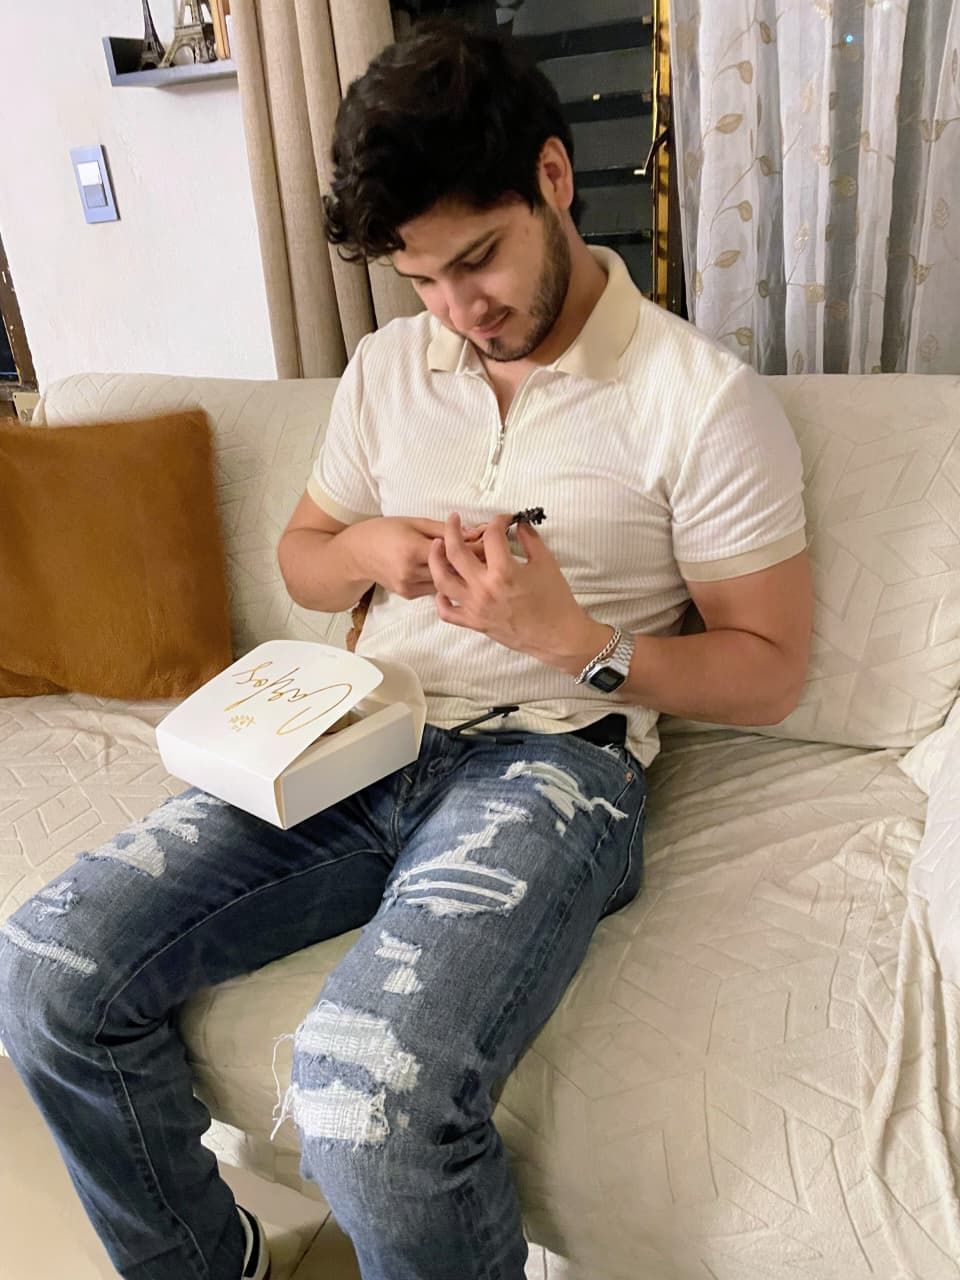
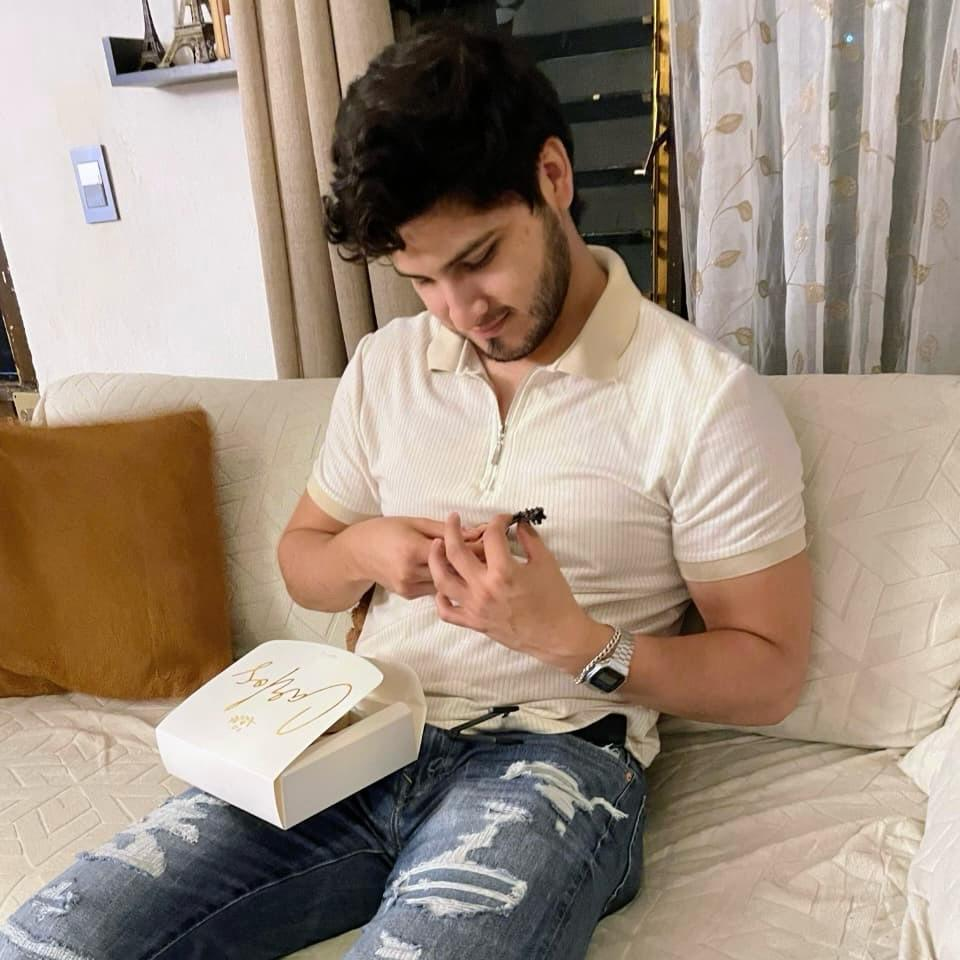
add only 1 image in cards

diff --git a/src/components/WelcomeScreen.tsx b/src/components/WelcomeScreen.tsx
@@ -156,45 +156,72 @@ export default function WelcomeScreen({ onOpenInvitation }: WelcomeScreenProps) 
           <p className="text-lg md:text-xl text-white/90 font-light">
             Nos casamos
           </p>
-          <div className="w-60 h-[2px] bg-white/50 mx-auto my-6"></div>
+          <div className="w-full flex justify-center gap-3 mx-auto mt-4">
+            <Image
+              src={"/erizos3.jpeg"}
+              alt="Logo"
+              width={160}
+              height={160}
+              className="bg-transparent mix-blend-multiply contrast-125 [clip-path:polygon(50%_0%,_93%_25%,_93%_75%,_50%_100%,_7%_75%,_7%_25%)]  pb-8 object-cover px-7"
+            />
+            {/* <Image
+              src={"/erizo.png"}
+              alt="Logo"
+              width={60}
+              height={60}
+              className="object-contain"
+            /> */}
+          </div>
           <p className="text-white/80 text-sm md:text-base">
             11 de Abril, 2026
           </p>
         </div>
 
         {/* Content Card with backdrop */}
-        <div className="bg-white/10 backdrop-blur-sm rounded-3xl p-6 sm:p-8 md:px-12 md:py-6 shadow-2xl w-full max-w-xl mx-auto">
+        <div className="rounded-3xl p-6 sm:p-8 md:px-12 md:py-6 w-full max-w-xl mx-auto">
           <button
             onClick={handleOpenInvitation}
             disabled={isOpening}
-            className={`group relative overflow-hidden 
-                      text-gray-800 px-8 py-3 sm:px-10 sm:py-4 rounded-full 
-                      font-bold text-xs sm:text-sm md:text-base
-                      transition-all duration-300 transform hover:scale-105 shadow-xl
-                      border-2 border-white/30 hover:border-white/50
-                      bg-white/90 hover:bg-white
-                      ${isOpening ? 'cursor-not-allowed' : ''}
-                      focus:outline-none focus:ring-2 focus:ring-white/50 focus:ring-offset-2`}
+            className={`group relative overflow-hidden
+                      px-9 py-3 sm:px-12 sm:py-4 rounded-full
+                      font-semibold tracking-wide text-xs sm:text-sm md:text-base
+                      text-gray-900
+                      transition-all duration-300 transform hover:scale-105
+                      shadow-lg hover:shadow-2xl
+                      border border-white/50 hover:border-white/80
+                      bg-gradient-to-r from-white/80 via-[#fdf7f2]/80 to-white/80
+                      backdrop-blur-xl
+                      ${isOpening ? 'cursor-wait opacity-80' : ''}
+                      focus:outline-none focus:ring-2 focus:ring-offset-2 focus:ring-white/60`}
             aria-label={isOpening ? "Abriendo invitación..." : "Abrir invitación"}
           >
             <span className="relative z-10 flex items-center justify-center gap-2 sm:gap-3">
               {isOpening ? (
                 <>
-                  <span className="w-4 h-4 sm:w-5 sm:h-5 border-2 border-gray-800 border-t-transparent rounded-full animate-spin"></span>
-                  <span>Abriendo...</span>
+                  <span className="w-4 h-4 sm:w-5 sm:h-5 border-2 border-[#7ba3c8] border-t-transparent rounded-full animate-spin"></span>
+                  <span className="habibi-regular">Abriendo...</span>
                 </>
               ) : (
                 <>
-                  <Lock className="h-4 w-4 sm:h-6 sm:w-6 group-hover:animate-bounce transition-transform" />
-                  <span>¡CORAZÓN PALPITANTE, MANOS TEMBLOROSAS, ¡TOCA AQUÍ!</span>
+                 <span className="habibi-regular text-[0.7rem] sm:text-xs md:text-sm">
+                    ¡CORAZÓN PALPITANTE, MANOS TEMBLOROSAS, 
+                    <span className="text-[#8cc9e0] font-semibold"> ¡TOCA AQUÍ!</span>
+                  </span>
                 </>
               )}
             </span>
             
-            {/* Hover Effect */}
+            {/* Hover / background gradient overlay */}
             <span 
-              className="absolute inset-0 bg-gradient-to-r from-wedding-secondary/80 to-wedding-rose/80 
-                       opacity-0 group-hover:opacity-100 transition-opacity duration-300 -z-0"
+              className="absolute inset-0 bg-gradient-to-r from-wedding-secondary/60 via-[#a8d8f0]/75 to-wedding-rose/75
+                       opacity-60 group-hover:opacity-100 transition-opacity duration-300 -z-0"
+              aria-hidden="true"
+            ></span>
+            {/* Soft glow ring */}
+            <span
+              className="pointer-events-none absolute -inset-[2px] rounded-full bg-gradient-to-r
+                         from-white/40 via-[#a8d8f0]/40 to-white/40 opacity-0
+                         group-hover:opacity-100 blur-md transition-opacity duration-300 -z-10"
               aria-hidden="true"
             ></span>
           </button>

diff --git a/src/components/WeddingSponsors.tsx b/src/components/WeddingSponsors.tsx
@@ -24,7 +24,7 @@ export default function WeddingSponsors() {
       name: "Padrinos de Velación",
       sponsor: "Rosy Jara & Ángel Ramírez",
       role: "Velación",
-      images: ["/velacion.jpeg", "/velacion2.jpeg"],
+      images: ["/velacio2.jpeg", "/velacion.jpeg"],
       description: "Luz y guía en nuestro camino juntos.",
     },
     {
@@ -96,7 +96,7 @@ export default function WeddingSponsors() {
       name: "Invitado Especial",
       sponsor: "Fabito",
       role: "Cumpleañero",
-      images: ["/cumpleanero.jpeg"],
+      images: ["/cumpleanero.jpeg", "/cumpleanero.jpeg"],
       description: "Celebrando un año más de vida en nuestro día especial.",
     },
   ]
@@ -164,44 +164,17 @@ export default function WeddingSponsors() {
                 animationDelay: `${index * 100}ms`,
               }}
             >
-              <div className="relative h-58 md:h-50 bg-gradient-to-br from-[#f0f9fd] via-[#f5fbfd] to-[#a8d8f0]/20 overflow-hidden">
-                {sponsor.images && sponsor.images.length > 0 ? (
-                  <div className="flex h-full w-full gap-1">
-                    {sponsor.images.length === 1 ? (
-                      <div key={0} className="w-full h-full">
-                        <Image
-                          src={sponsor.images[0] || "/placeholder.svg"}
-                          alt={`${sponsor.name} 1`}
-                          fill
-                          loading="lazy"
-                          quality={80}
-                          className="object-cover h-full transition-transform duration-500"
-                          onError={(e) => {
-                            const target = e.target as HTMLImageElement
-                            target.style.display = "none"
-                          }}
-                        />
-                      </div>
-                    ) : (
-                      sponsor.images.slice(0, 2).map((image, imgIndex) => (
-                        <div key={imgIndex} className="relative flex-1 h-full">
-                          <Image
-                            src={image || "/placeholder.svg"}
-                            alt={`${sponsor.name} ${imgIndex + 1}`}
-                            height={180}
-                            width={180}
-                            loading="lazy"
-                            quality={80}
-                            className="w-full object-contains h-full md:object-cover transition-transform duration-500"
-                            onError={(e) => {
-                              const target = e.target as HTMLImageElement
-                              target.style.display = "none"
-                            }}
-                          />
-                        </div>
-                      ))
-                    )}
-                  </div>
+              <div className="relative h-78 bg-gradient-to-br from-[#f0f9fd] via-[#f5fbfd] to-[#a8d8f0]/20 overflow-hidden">
+                {sponsor.images? (
+                  <Image
+                    src={sponsor.images[1]}
+                    alt={sponsor.name}
+                    fill
+                    loading="lazy"
+                    quality={80}
+                    className=""
+                    
+                  />
                 ) : (
                   <div className="w-full h-full flex items-center justify-center">
                     <Users className="h-16 w-16 text-[#a8d8f0]/40" />
